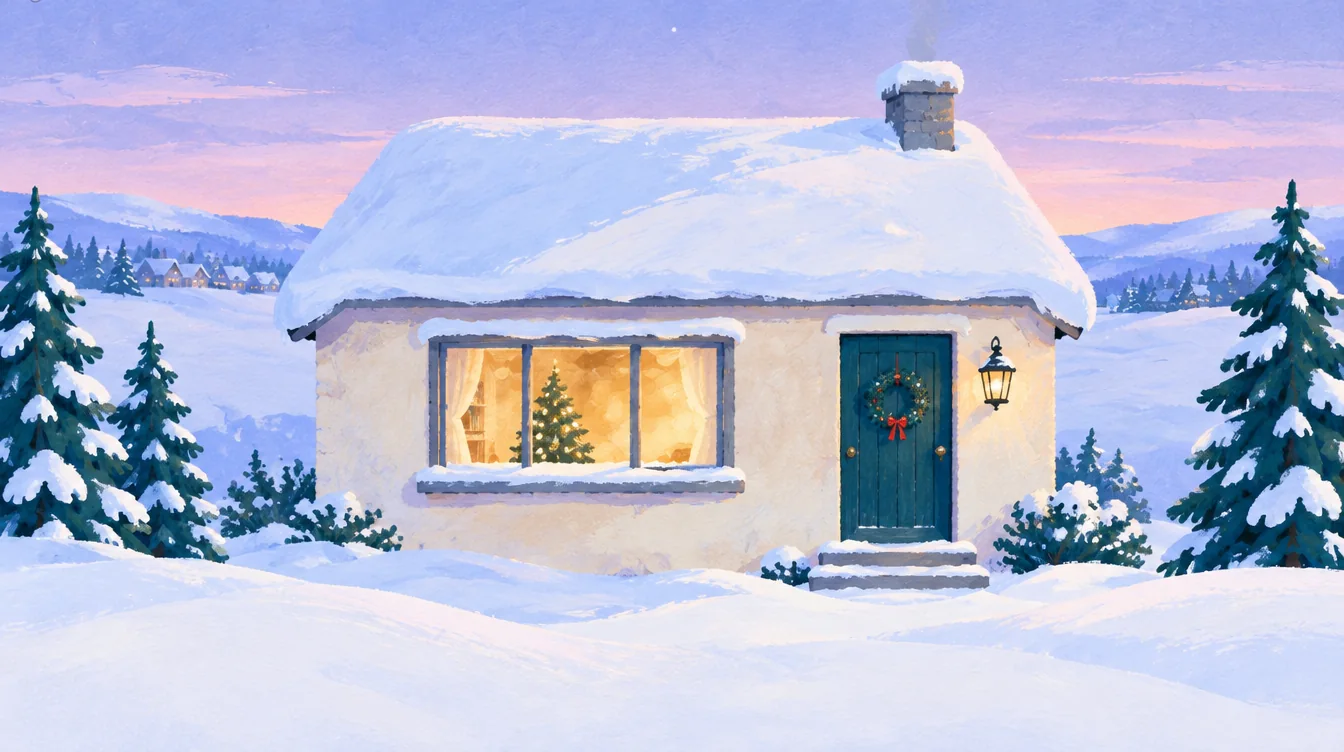
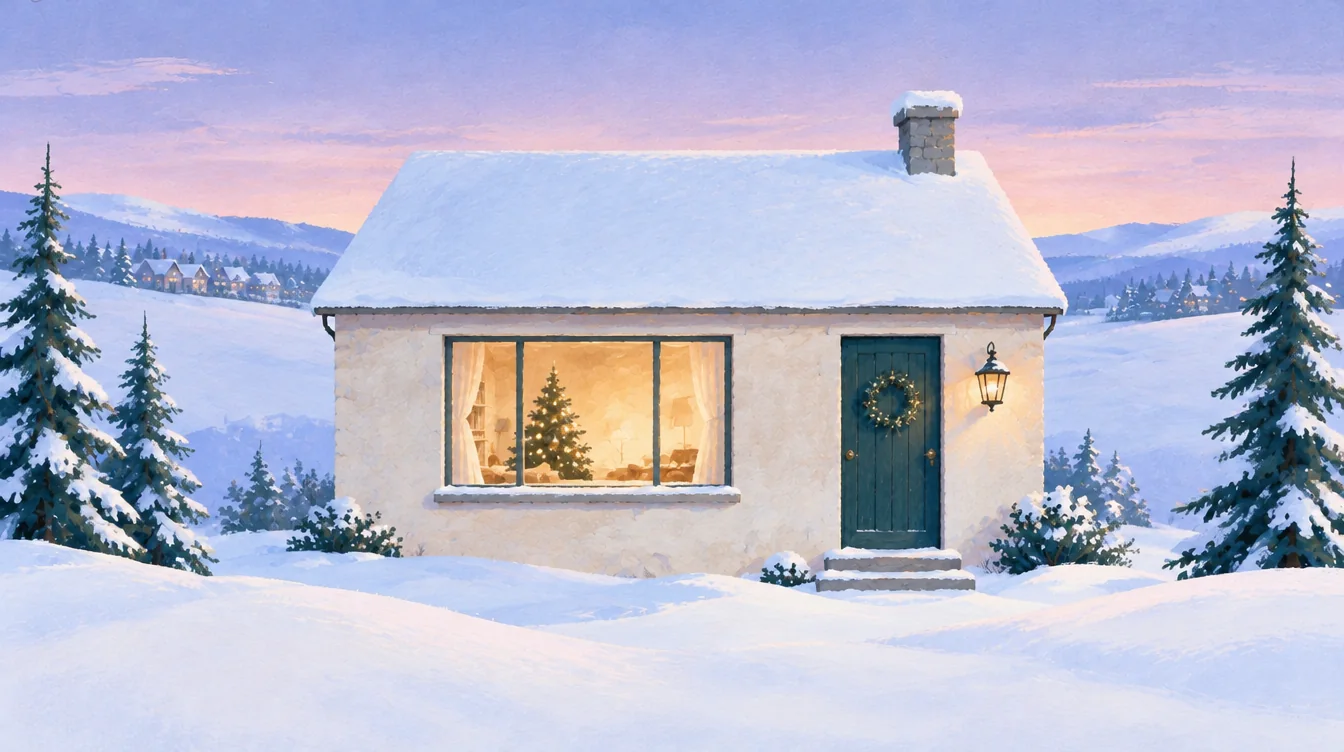
Adventskalender v5: elegant room and house

diff --git a/onsite-alignment/farben-des-winters-v5/js/ride.js b/onsite-alignment/farben-des-winters-v5/js/ride.js
@@ -1221,11 +1221,11 @@
      (the phases keep their old names, 'street' and 'gallery') */
 
   const anchors = {
-    street: { door: { w: [0.625, 0.447, 0.708, 0.718], t: [0.677, 0.491, 0.859, 0.7] } },
+    street: { door: { w: [0.625, 0.447, 0.7, 0.726], t: [0.672, 0.476, 0.853, 0.7] } },
     gallery: {
-      wall: { w: [0.2, 0.11, 0.75, 0.43], t: [0.1, 0.13, 0.9, 0.43] },
+      wall: { w: [0.2, 0.1, 0.74, 0.47], t: [0.12, 0.13, 0.88, 0.44] },
       /* the sofa: today's work hangs over it on the calendar (left, top of the back, right, feet) */
-      sofa: { w: [0.213, 0.456, 0.745, 0.8], t: [0.09, 0.452, 0.92, 0.636] },
+      sofa: { w: [0.217, 0.509, 0.728, 0.799], t: [0.109, 0.465, 0.888, 0.634] },
     },
   };
   function plateBox(ar) {
